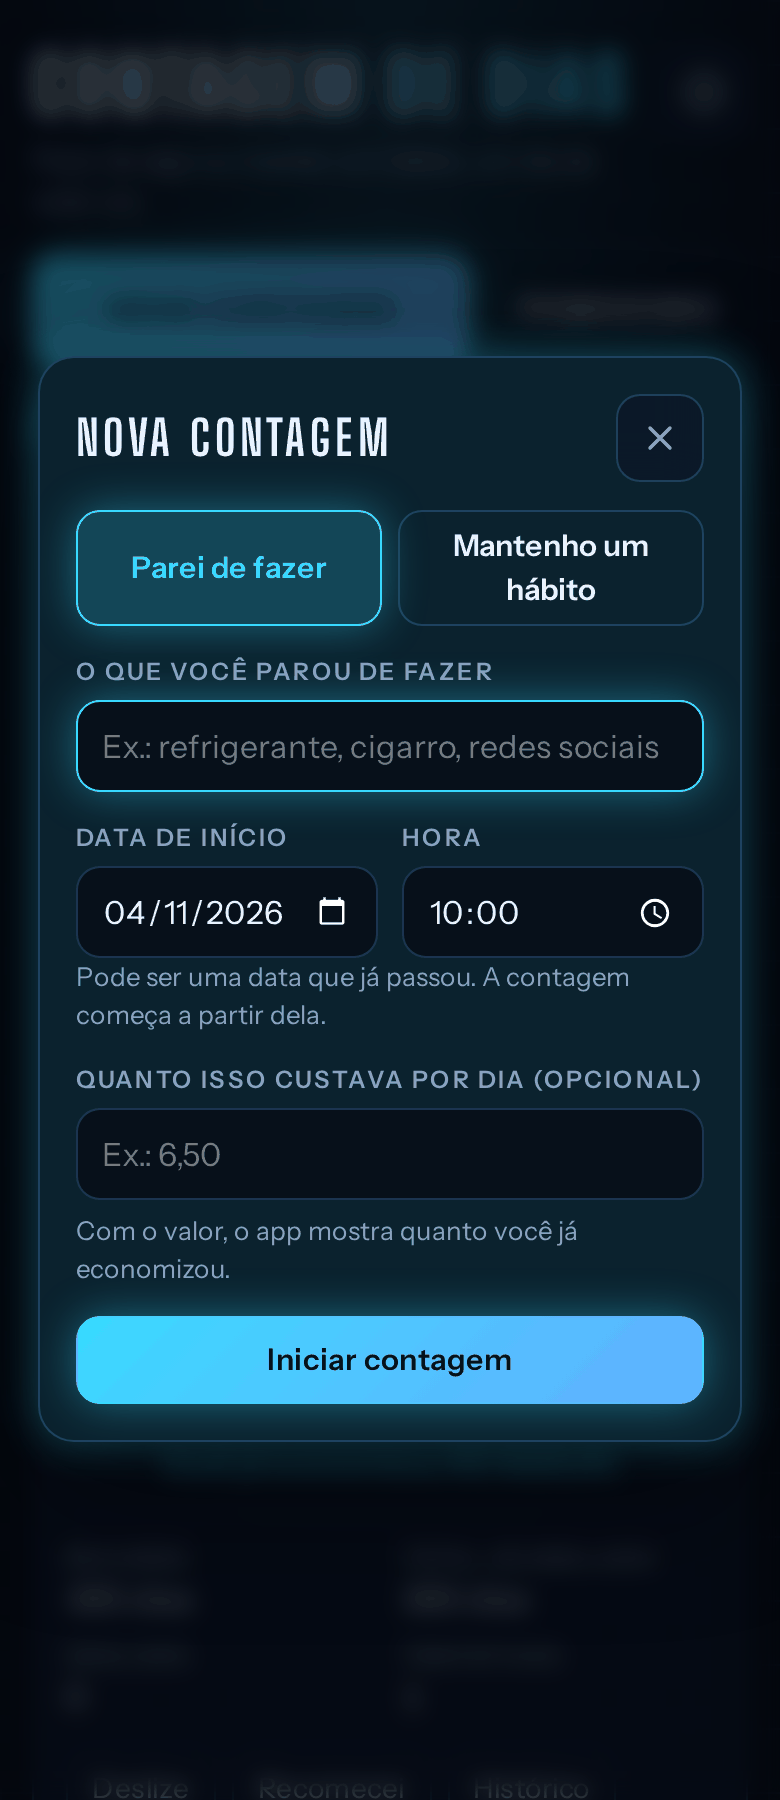
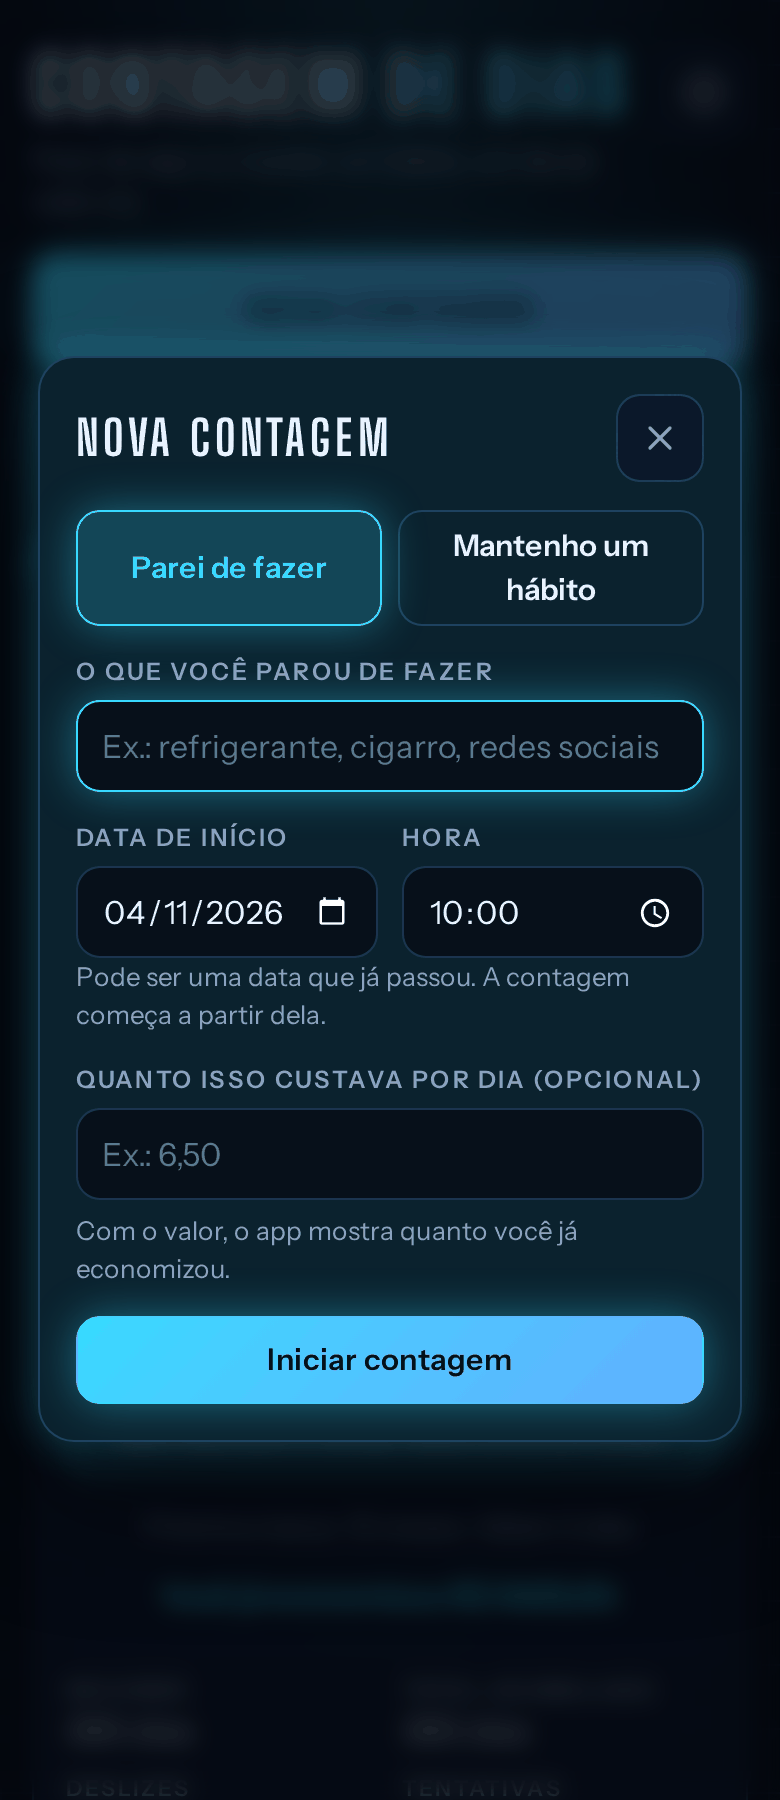
Capturas: telas do cronograma e imagens atualizadas

diff --git a/scripts/capturas.py b/scripts/capturas.py
@@ -46,6 +46,20 @@ def pomodoro(fase='foco', rodando=True, restante_ms=18 * 60000 + 32000, ciclo=2)
     return e
 
 
+def cronogramas(rodando=False):
+    """Dois cronogramas de exemplo; com rodando=True o "Treino rápido" está no 2º passo, a 4 min 12 s do fim."""
+    rotinas = [
+        {'id': 'r1', 'nome': 'Treino rápido', 'feitas': 6, 'ultima': (AGORA - DIA).date().isoformat(),
+         'passos': [{'nome': 'Prancha', 'seg': 120}, {'nome': 'Agachamento', 'seg': 300}, {'nome': 'Flexão', 'seg': 300}]},
+        {'id': 'r2', 'nome': 'Alongamento da manhã', 'feitas': 2, 'ultima': (AGORA - 3 * DIA).date().isoformat(),
+         'passos': [{'nome': 'Pescoço', 'seg': 60}, {'nome': 'Ombros', 'seg': 90}, {'nome': 'Costas', 'seg': 120}, {'nome': 'Pernas', 'seg': 120}]},
+    ]
+    sessao = None
+    if rodando:
+        sessao = {'rotinaId': 'r1', 'passo': 1, 'rodando': True, 'fimEm': MS(AGORA) + (4 * 60 + 12) * 1000, 'restanteMs': 300000, 'atualizadoEm': 0}
+    return {'versao': 1, 'rotinas': rotinas, 'sessao': sessao}
+
+
 def porta_livre():
     with socket.socket() as s:
         s.bind(('127.0.0.1', 0))
@@ -59,14 +73,15 @@ time.sleep(1)
 URL = f'http://127.0.0.1:{PORTA}/'
 
 
-def abrir(b, esquema, modo, pomo=None, hash_=''):
+def abrir(b, esquema, modo, pomo=None, hash_='', crono=None):
     ctx = b.new_context(viewport={'width': 390, 'height': 900 if not hash_ else 844}, device_scale_factor=2, color_scheme=esquema, service_workers='block', locale='pt-BR', timezone_id='America/Sao_Paulo')
     ctx.add_init_script(f"localStorage.setItem('contagem-de-dias:v2', {json.dumps(json.dumps(estado(modo)))});"
-                        + (f"localStorage.setItem('contagem-de-dias:pomodoro', {json.dumps(json.dumps(pomo))});" if pomo else ''))
+                        + (f"localStorage.setItem('contagem-de-dias:pomodoro', {json.dumps(json.dumps(pomo))});" if pomo else '')
+                        + (f"localStorage.setItem('contagem-de-dias:cronograma', {json.dumps(json.dumps(crono))});" if crono else ''))
     pg = ctx.new_page()
     pg.clock.install(time=AGORA)
     pg.goto(URL + hash_)
-    pg.wait_for_selector('#tela-pomodoro:not([hidden])' if hash_ else '#list .card')
+    pg.wait_for_selector({'#pomodoro': '#tela-pomodoro:not([hidden])', '#cronograma': '#tela-cronograma:not([hidden])'}.get(hash_, '#list .card'))
     pg.clock.pause_at(AGORA + datetime.timedelta(seconds=2))
     pg.wait_for_timeout(600)
     return ctx, pg
@@ -96,6 +111,8 @@ try:
         ctx, pg = abrir(b, 'dark', 'escuro', pomodoro(), '#pomodoro'); foto(pg, 'pomodoro-foco')
         pg.click('#pomo-historico-abrir'); pg.wait_for_timeout(400); foto(pg, 'pomodoro-estatisticas'); ctx.close()
         ctx, pg = abrir(b, 'light', 'claro', pomodoro('pausa', False, 5 * 60000 - 90000, 2), '#pomodoro'); foto(pg, 'pomodoro-pausa'); ctx.close()
+        ctx, pg = abrir(b, 'light', 'claro', hash_='#cronograma', crono=cronogramas()); foto(pg, 'cronograma-lista'); ctx.close()
+        ctx, pg = abrir(b, 'dark', 'escuro', hash_='#cronograma', crono=cronogramas(True)); foto(pg, 'cronograma-execucao'); ctx.close()
         b.close()
 finally:
     servidor.terminate()
